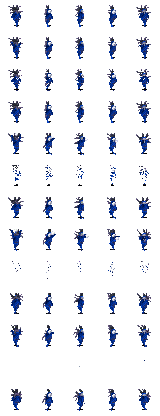
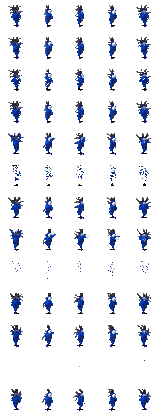
Fix inverted team-colour shading on new sprites; accurate lineup colours
The lineup image used a made-up light ramp in the wrong order, so the
Necromancer and others looked washed out compared to the game. It now
uses the in-game violet player colour. This also showed the generators
mapped team colour backwards (index 200 is darkest), fixed for the
Abomination, Banshee and Crypt Fiend.

Claude-Session: https://claude.ai/code/session_01So1hoPvMbJfrqwqwmZsG57

diff --git a/scripts/build_abomination.py b/scripts/build_abomination.py
@@ -353,7 +353,7 @@ def shrink_and_map_team(rgba):
                         continue
                     if b > r + 60 and b > g + 60:
                         k = max(0, min(7, int((255 - b) / 26)))
-                        px[x, y] = (254, 0, 200 + k, 255)
+                        px[x, y] = (254, 0, 207 - k, 255)  # 200 = darkest, 207 = brightest in game
                     else:
                         px[x, y] = (r, g, b, 255)
             out.paste(fr, (fx + off_x, fy + off_y))

diff --git a/scripts/build_banshee.py b/scripts/build_banshee.py
@@ -247,7 +247,7 @@ def shrink_and_map_team(frame_img):
                 px[x, y] = (0, 0, 0, 0)
             elif b > r + 60 and b > g + 60:
                 k = max(0, min(7, int((255 - b) / 26)))
-                px[x, y] = (254, 0, 200 + k, 255)
+                px[x, y] = (254, 0, 207 - k, 255)  # 200 = darkest, 207 = brightest in game
             else:
                 px[x, y] = (r, g, b, 255)
     out = Image.new("RGBA", (FRAME, FRAME), (0, 0, 0, 0))

diff --git a/scripts/build_crypt_fiend.py b/scripts/build_crypt_fiend.py
@@ -176,7 +176,7 @@ def shrink_and_map_team(frame_img):
                 px[x, y] = (0, 0, 0, 0)
             elif b > r + 60 and b > g + 60:
                 k = max(0, min(7, int((255 - b) / 26)))
-                px[x, y] = (254, 0, 200 + k, 255)
+                px[x, y] = (254, 0, 207 - k, 255)  # 200 = darkest, 207 = brightest in game
             else:
                 px[x, y] = (r, g, b, 255)
     out = Image.new("RGBA", (FRAME, FRAME), (0, 0, 0, 0))
